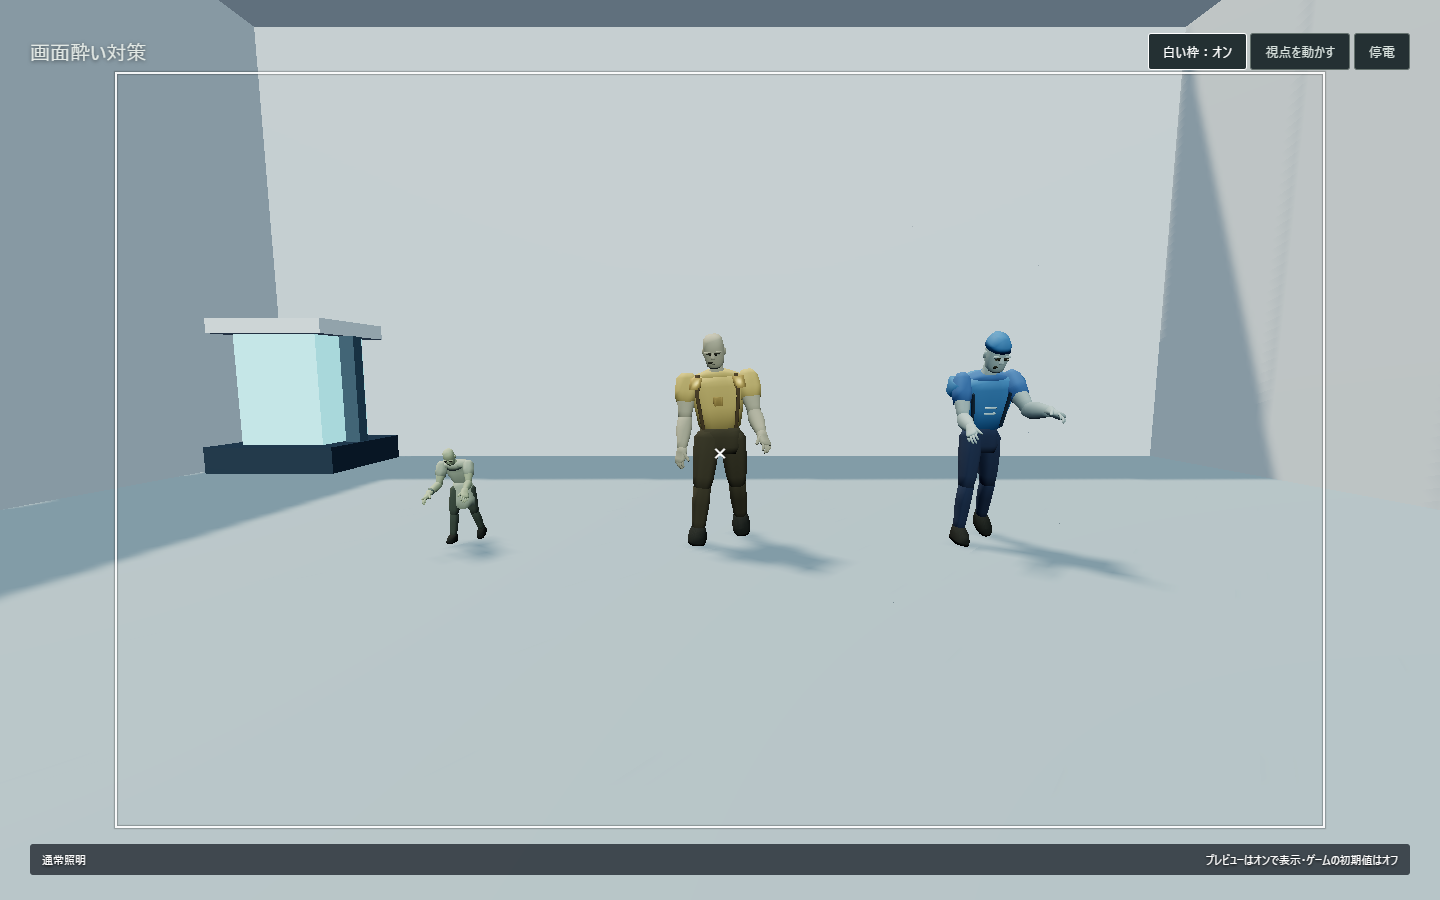
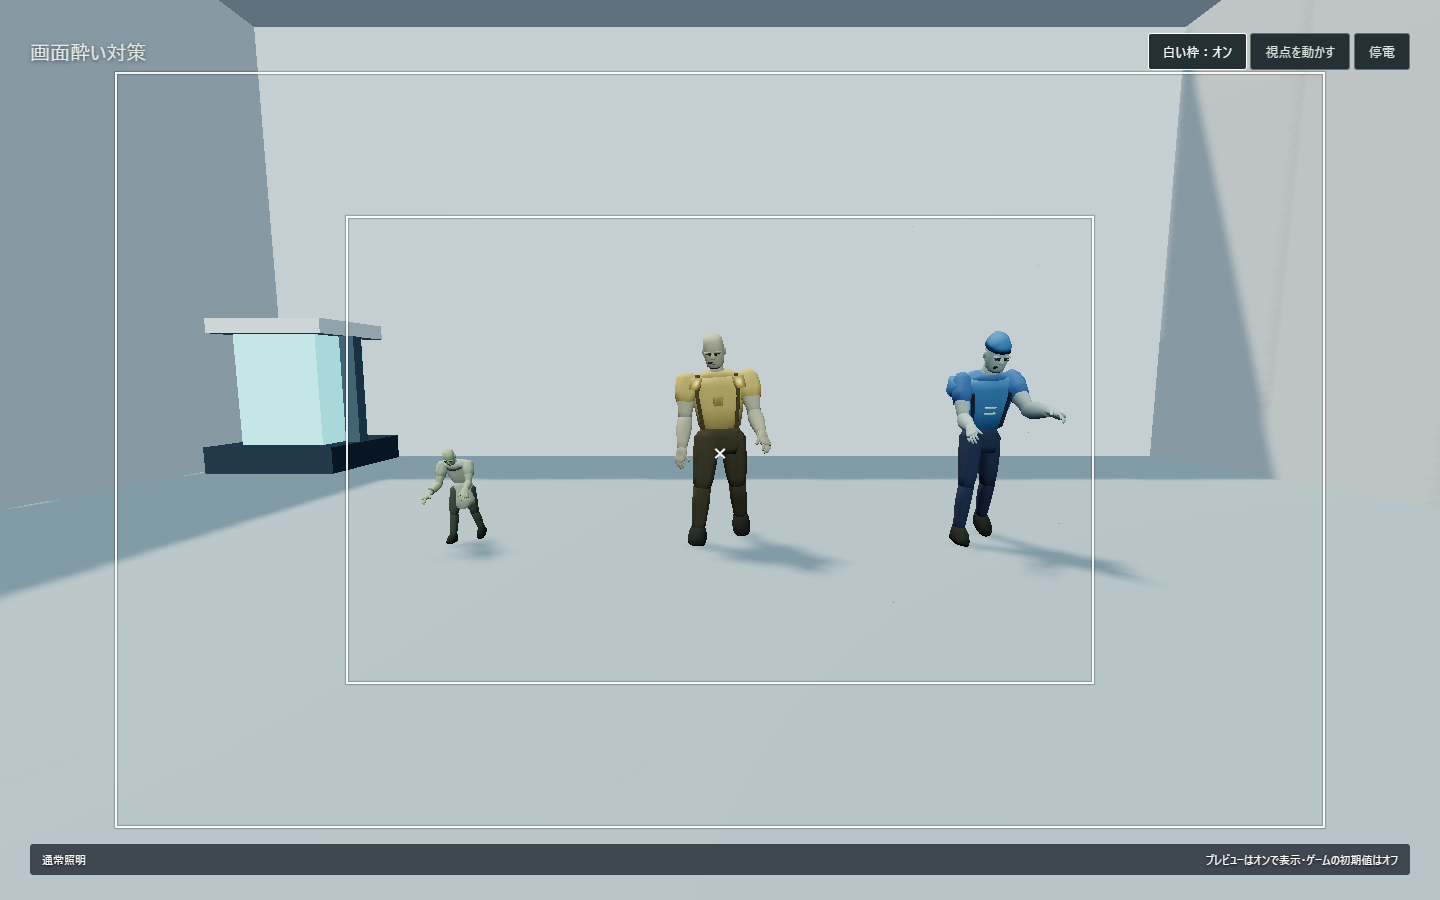
Add inner comfort frame and place frames behind HUD

Changed region(s): [[0.25, 0.7467, 0.75, 0.7778], [0.25, 0.2178, 0.75, 0.2489]]

diff --git a/client/previews/comfort-frame.html b/client/previews/comfort-frame.html
@@ -2,7 +2,7 @@
 <html lang="ja" class="comfort-frame-enabled"><head><meta charset="utf-8"><meta name="viewport" content="width=device-width,initial-scale=1"><title>白い枠 / プレビュー</title><link rel="stylesheet" href="../comfort-frame.css">
 <style>
 *{box-sizing:border-box}body{margin:0;background:#141e26;color:#e3e9e5;font:13px system-ui,sans-serif;overflow:hidden}#lab-scene{position:fixed;inset:0;width:100%;height:100%}header,footer{position:fixed;left:30px;right:30px;z-index:1;display:flex;justify-content:space-between;align-items:center}header{top:25px}h1{font-size:20px;font-weight:450}button,a{font:inherit;color:#d8e1dd;background:#243033;border:1px solid #65726e;border-radius:3px;padding:9px 14px;text-decoration:none;cursor:pointer}footer{bottom:25px;color:#b3c1ba;font-size:11px}#overlay{display:none}.labels{position:fixed;left:0;right:0;bottom:20%;z-index:1;display:flex;justify-content:space-evenly;pointer-events:none;letter-spacing:.15em}
-.reticle{position:fixed;left:50%;top:50%;transform:translate(-50%,-50%);color:white;font:24px system-ui;pointer-events:none;z-index:1}header,footer{z-index:6}h1{text-shadow:0 1px 4px #0009}footer{color:#fff;text-shadow:0 1px 3px #000;background:#101820b8;padding:8px 12px;border-radius:3px}button[aria-pressed="true"]{border-color:#fff;color:#fff}@media(max-width:600px){header,footer{left:16px;right:16px}header{align-items:flex-start;gap:8px}h1{font-size:15px}button{padding:8px}footer{font-size:10px;gap:20px}}</style></head><body><header><h1>画面酔い対策</h1><div><button id="frame" aria-pressed="true">白い枠：オン</button> <button id="walk" aria-pressed="false">視点を動かす</button> <button id="light">停電</button></div></header><div class="comfort-frame" aria-hidden="true"></div><span class="reticle" aria-hidden="true">×</span><footer><span id="status">通常照明</span><span>プレビューはオンで表示・ゲームの初期値はオフ</span></footer><canvas id="overlay"></canvas>
+.reticle{position:fixed;left:50%;top:50%;transform:translate(-50%,-50%);color:white;font:24px system-ui;pointer-events:none;z-index:1}header,footer{z-index:6}h1{text-shadow:0 1px 4px #0009}footer{color:#fff;text-shadow:0 1px 3px #000;background:#101820b8;padding:8px 12px;border-radius:3px}button[aria-pressed="true"]{border-color:#fff;color:#fff}@media(max-width:600px){header,footer{left:16px;right:16px}header{align-items:flex-start;gap:8px}h1{font-size:15px}button{padding:8px}footer{font-size:10px;gap:20px}}</style></head><body><header><h1>画面酔い対策</h1><div><button id="frame" aria-pressed="true">白い枠：オン</button> <button id="walk" aria-pressed="false">視点を動かす</button> <button id="light">停電</button></div></header><span class="reticle" aria-hidden="true">×</span><footer><span id="status">通常照明</span><span>プレビューはオンで表示・ゲームの初期値はオフ</span></footer><canvas id="overlay"></canvas><div class="comfort-frame" aria-hidden="true"></div>
 <script src="../vendor/three.min.js"></script><script src="../aim-control.js"></script><script src="../soldier-model.js"></script><script src="../sniper-stance.js"></script><script src="../organic-enemy-models.js"></script><script src="../lab-enemy-models.js"></script><script src="../wall-impacts.js"></script><script src="../block-terrain.js"></script><script src="../map-object-models.js"></script><script src="../hit-presentation.js"></script><script src="../lab3d.js"></script>
 <script>
 'use strict';

diff --git a/client/comfort-frame.css b/client/comfort-frame.css
@@ -2,9 +2,18 @@
     display: none;
     position: fixed;
     inset: 8%;
-    z-index: 5;
+    /* Keep both frames underneath the HUD's positive stacking levels. */
+    z-index: 0;
     border: 2px solid rgb(255 255 255 / 90%);
     box-shadow: 0 0 1px 1px rgb(0 0 0 / 25%), inset 0 0 1px 1px rgb(0 0 0 / 25%);
+    pointer-events: none;
+}
+.comfort-frame::after {
+    content: "";
+    position: fixed;
+    inset: 24%;
+    border: inherit;
+    box-shadow: inherit;
     pointer-events: none;
 }
 .comfort-frame-enabled .comfort-frame { display: block; }

diff --git a/docs/architecture.md b/docs/architecture.md
@@ -470,4 +470,4 @@ SIEGE / CHAMPION / WARDENにはlab-siege / lab-champion / lab-wardenを割り当
 
 プラズマブレードはLab3Dで直線ビーム・銃反動を出さず、共有の手・柄追従モーションで予備動作・斬撃・復帰を描く。HUDとインベントリは同じSVGアイコンを使う。毒ガスは右手の掌と指で瓶を握り、220msで手を離れて580msの放物線演出を行う。PoisonGasRulesが投擲開始から800msの待機を管理し、待機中はSnapshotBuilderに効果エリアを出さず、着地から従来の6秒間のダメージを開始する。瓶自体の衝突・当たり判定は追加しない。リパルサーは1波90粒子、所有者ごと1波、全体最大4波とし、アンテナを除く。LASER CANNONの共有武器モデルは青系を使う。
 
-画面酔い対策の白い枠は`client/comfort-frame.js`が初期オフ・端末内保存を管理し、`menu-ui.js`の設定から切り替える。`comfort-frame.css`の固定枠をHUD内に置き、カメラ移動・反動・倍率とは独立して画面の8%内側へ表示する。枠は入力を遮らず、メニュー・ロビーでは非表示。`client/previews/comfort-frame.html`は共通CSSでオン・オフと視点移動を比較し、プレビューの操作は保存設定を変更しない。`node client/tests/comfort-frame.cjs`で保存と失敗時の動作を検証し、`client/previews/capture-comfort-frame.cjs`でブラウザー表示・設定連携と画像を確認する。
+画面酔い対策の白い枠は`client/comfort-frame.js`が初期オフ・端末内保存を管理し、`menu-ui.js`の設定から切り替える。`comfort-frame.css`の固定枠をHUD内に置き、カメラ移動・反動・倍率とは独立して画面の8%・24%内側へ二重に表示する。枠のz-indexは0とし、他のHUDより奥へ配置する。枠は入力を遮らず、メニュー・ロビーでは非表示。`client/previews/comfort-frame.html`は共通CSSでオン・オフと視点移動を比較し、プレビューの操作は保存設定を変更しない。`node client/tests/comfort-frame.cjs`で保存と失敗時の動作を検証し、`client/previews/capture-comfort-frame.cjs`でブラウザー表示・設定連携と画像を確認する。
